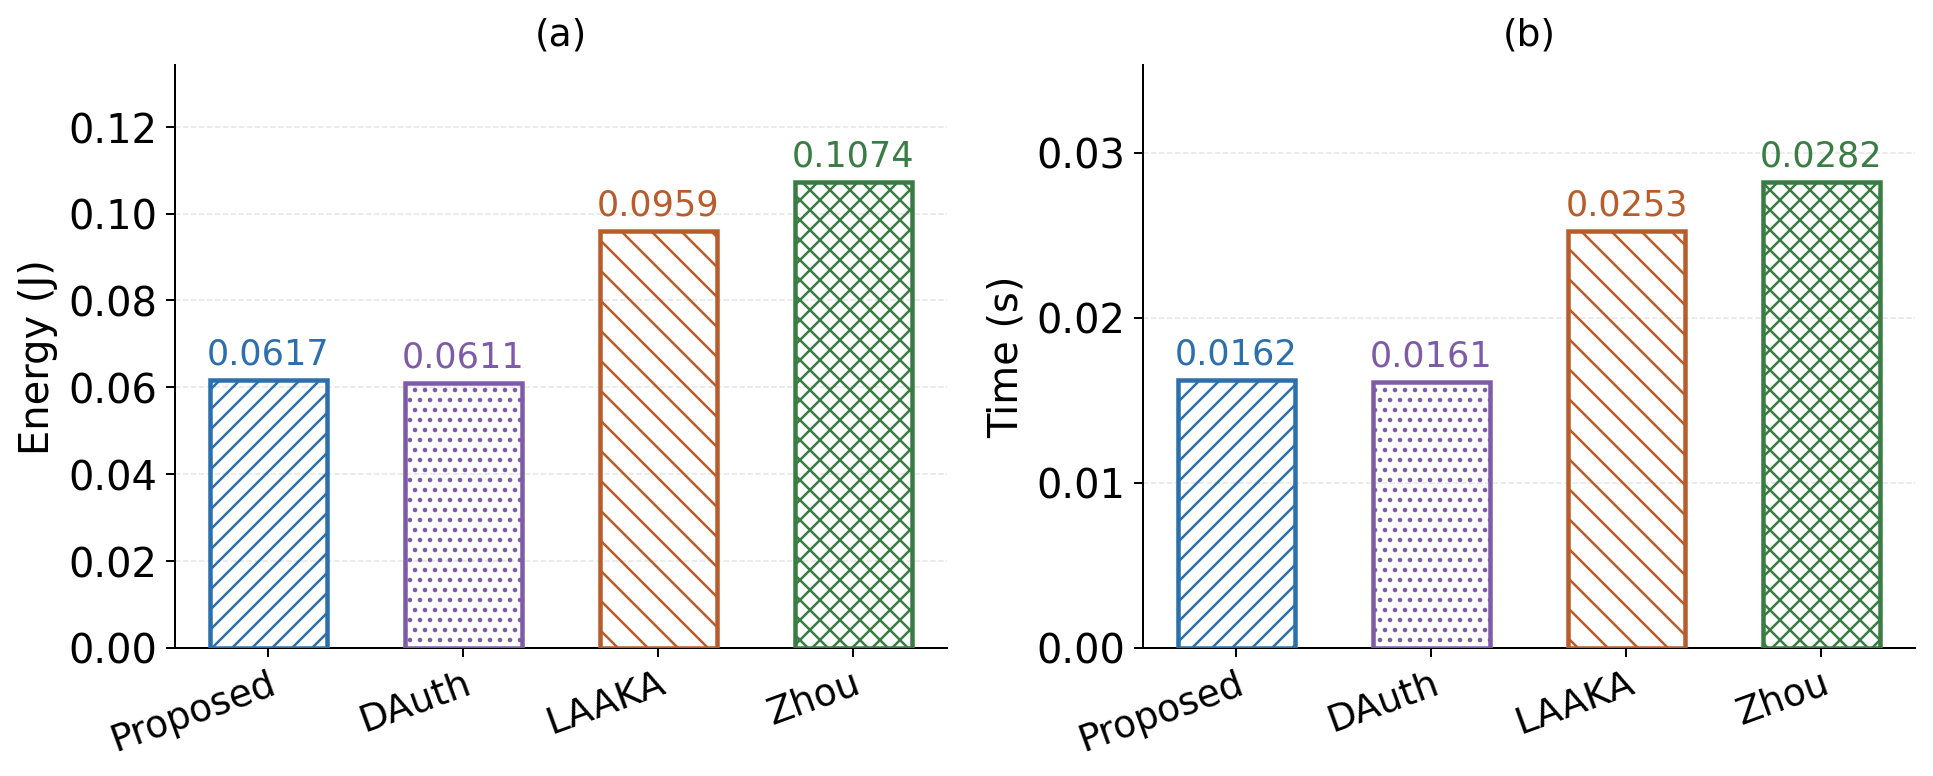
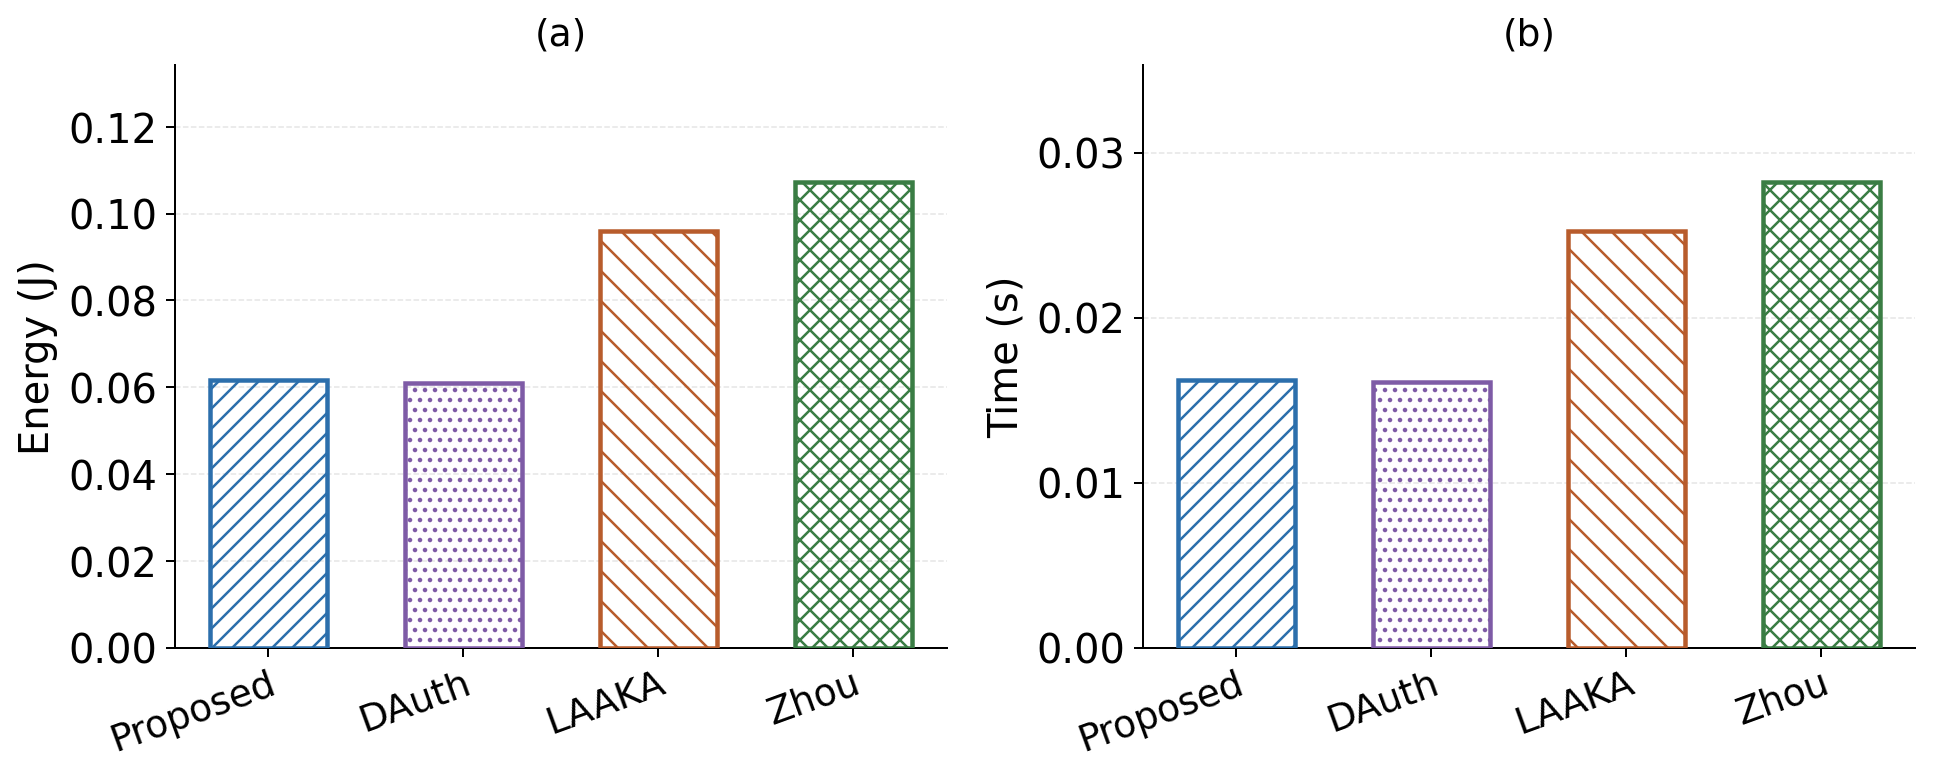
Charts: remove on-bar value labels from figs 8 and 10
Drop the numeric value annotations above the bars in fig_desync_bar
(recovery cost) and fig_hw_comparison (hardware); y-axis scale retained.

diff --git a/Hardware/MIRACLE/plot_auth_keyex.py b/Hardware/MIRACLE/plot_auth_keyex.py
@@ -53,8 +53,6 @@ def main():
         for i, lab in enumerate(labels):
             ax.bar(i, vals[i], width=0.6, facecolor="none", edgecolor=COLORS[lab],
                    hatch=HATCHES[lab], linewidth=1.8, zorder=3)
-            ax.text(i, vals[i] + max(vals) * 0.02, fmt.format(vals[i]),
-                    ha="center", va="bottom", fontsize=14, fontweight="normal", color=COLORS[lab])
         ax.set_xticks(x); ax.set_xticklabels(labels, fontsize=15, rotation=20, ha="right", rotation_mode="anchor")
         ax.set_ylabel(ylabel, fontsize=16, fontweight="normal")
         ax.set_title(title, fontsize=15, fontweight="normal", pad=8)

diff --git a/Scripts/Simulation-Runners/plot_desync_bar.py b/Scripts/Simulation-Runners/plot_desync_bar.py
@@ -118,9 +118,6 @@ def draw_panel(ax, stats, ylabel, fmt):
                hatch="xxx",
                linewidth=2.2,
                zorder=3)
-        ax.text(s_idx, mean + max_val * 0.02, fmt.format(mean),
-                ha="center", va="bottom", fontsize=26, fontweight="normal",
-                color=SCHEME_COLORS[scheme])
 
     ax.set_xticks(range(n_schemes))
     ax.set_xticklabels(SCHEMES, fontsize=31, rotation=20, ha="right", rotation_mode="anchor")
